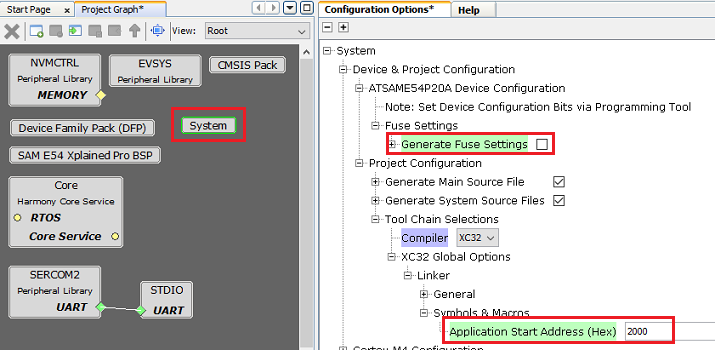
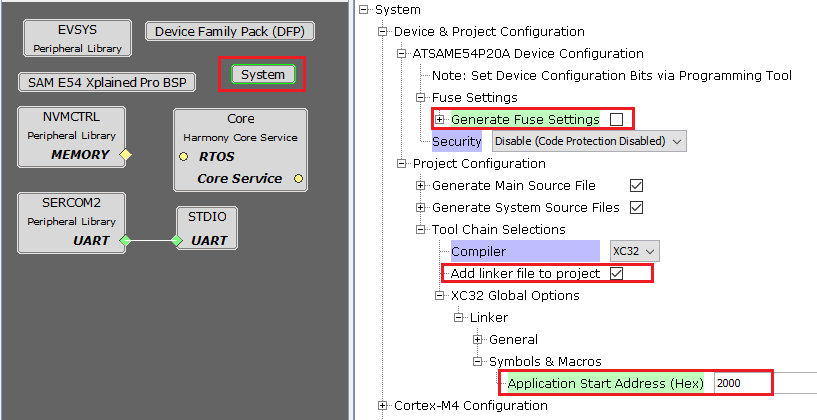
[DOC] Updated Application documentation
MH3-53034

diff --git a/apps/docs/readme_configure_application_pic32m.md b/apps/docs/readme_configure_application_pic32m.md
@@ -1,17 +1,19 @@
 ---
 parent: Application Configurations
-title: PIC32M Application Configurations
+title: Application Configurations for MIPS based MCUs
 has_children: false
 has_toc: false
 ---
 
 [![MCHP](https://www.microchip.com/ResourcePackages/Microchip/assets/dist/images/logo.png)](https://www.microchip.com)
 
-# Configuring a PIC32M based Application to be bootloaded
+# Configuring an application to be bootloaded for MIPS based MCUs
+
+## Linker configurations for the application to be bootloaded
 
 ### Bootloader placement for various PIC32M product families
 
-The bootloader is placed in Boot Flash Memory (BFM) or Program Flash Memory (PFM) based on the size of the bootloader and available Boot flash memory on the device.
+The bootloader is placed in **Boot Flash Memory (BFM)** or **Program Flash Memory (PFM)** based on the size of the bootloader and available Boot flash memory on the device.
 
 - If the bootloader fits into the available BFM, it is placed in BFM. The user application can use the complete area of the program Flash memory.
 
@@ -19,10 +21,11 @@ The bootloader is placed in Boot Flash Memory (BFM) or Program Flash Memory (PFM
 
 - The following table shows the available Boot Flash memory and the placement of different bootloaders by product family. 
 
-![bootloader_placement](./images/bootloader_placement.png)
+    <p align="center">
+        <img src = "./images/bootloader_placement.png"/>
+    </p>
 
-
-## Setting Up the Application linker script
+## Setting up the Application linker script
 
 The linker script file of the application project has to be modified to place the vector table and reset handlers in program flash memory.
 
@@ -54,7 +57,7 @@ The linker script file of the application project has to be modified to place th
 - Updated linker scripts as explained above is shown here **as an example**
     - **Note: Cache related sections are not applicable for PIC32MK Devices**
 
-```
+```c
 PROVIDE(_vector_spacing = 0x0001);
 PROVIDE(_ebase_address = 0x9D000000);
 
@@ -132,7 +135,7 @@ kseg1_boot_mem_4B0      : ORIGIN = 0xBD0004B0, LENGTH = 0x1000 - 0x4B0
 - Updated linked scripts as explained above is shown here **as an example**.
     - Bootloader length **\<bootloader_length\>** in the below snippet needs to be replaced with size of the respective bootloader.
 
-```
+```c
 PROVIDE(_vector_spacing = 0x0001);
 PROVIDE(_ebase_address = 0x9D000000);
 
@@ -191,7 +194,7 @@ kseg1_boot_mem          : ORIGIN = 0xBD000000 + <bootloader_length>, LENGTH = 0x
 
 - Updated linked scripts as explained above is shown here **as an example.**
 
-```
+```c
 PROVIDE(_vector_spacing = 0x0001);
 PROVIDE(_ebase_address = 0x9D001000);
 
@@ -235,7 +238,7 @@ ASSERT (_vector_spacing == 0 || SIZEOF(.vector_1) <= (_vector_spacing << 5), "fu
 - Updated linked scripts as explained above is shown here **as an example.**
     - Bootloader length **\<bootloader_length\>** in the below snippet needs to be replaced with size of the respective bootloader.
 
-```
+```c
 PROVIDE(_vector_spacing = 0x0001);
 PROVIDE(_ebase_address = 0x9D000000 + <bootloader_length> + 0x1000);
 
@@ -270,11 +273,11 @@ ASSERT (_vector_spacing == 0 || SIZEOF(.vector_1) <= (_vector_spacing << 5), "fu
 
 ### Note
 
-- **As the Device configuration bits should be updated by bootloader only, the application linker script should not have any device configuration settings**
+- **The bootloader and the application must have the same device configuration bit settings. The Device configuration bit settings from the bootloader project will be updated by the programmer/debugger, Hence the application linker script should not have any device configuration bit settings. The application project will use the device configuration bit settings done by bootloader.**
 
 - **Device configurations and debug exception need to discarded from final hex file for the application project.**
 
-```
+```c
 /DISCARD/ : { *(._debug_exception) }
 /DISCARD/ : { *(.config_*) }
 ```
@@ -283,7 +286,7 @@ ASSERT (_vector_spacing == 0 || SIZEOF(.vector_1) <= (_vector_spacing << 5), "fu
 
 - **Data Memory Origin** and **Data Memory Length** values should be updated in linkerscript for reserving configured bytes from start of RAM to **trigger bootloader from firmware**
 
-```
+```c
 /* Reserve <trigger_len> Bytes to Store Bootloader Trigger Pattern */
 kseg0_data_mem       (w!x)  : ORIGIN = <ram_start> + <trigger_len>, LENGTH = <ram_length> - <trigger_len>
 ```
@@ -296,4 +299,7 @@ kseg0_data_mem       (w!x)  : ORIGIN = <ram_start> + <trigger_len>, LENGTH = <ra
 ${MP_CC_DIR}/xc32-objcopy -I ihex -O binary ${DISTDIR}/${PROJECTNAME}.${IMAGE_TYPE}.hex ${DISTDIR}/${PROJECTNAME}.${IMAGE_TYPE}.bin
     ```
 
-    ![application_config_post_build_script](./images/application_config_post_build_script.png)
+    <p align="center">
+        <img src = "./images/application_config_post_build_script.png"/>
+    </p>
+

diff --git a/tools/docs/readme_btl_host.md b/tools/docs/readme_btl_host.md
@@ -20,8 +20,7 @@ To clone or download the host tools from Github,go to the [bootloader repository
 
 ## Setting up the Host PC
 
-- The Script is compatible with **Python 3.x**
-    - For **Python 2.7.x** use the host scripts placed in **tool_archive/**. These scripts may be removed in future
+- The Script is compatible with **Python 3.x** and higher
 
 - It requires pyserial package to communicate with device over UART. Use below command to install the pyserial package
 
@@ -30,10 +29,14 @@ To clone or download the host tools from Github,go to the [bootloader repository
 ## Description
 
 - This host script should be used to communicate with the Bootloader running on the device via **UART interface**
+
 - It is a command line interface and implements the bootloader protocol required to communicate from host PC
+
 - If size of the input binary file is not aligned to device erase boundary it appends 0xFF to the binary to make it aligned and then sends the binary to the device
+
 - It should be used with -s (--swap) option when using bootloader in **fail safe update mode** to trigger a **swap bank and reset**
-- It should be used with -b (--boot) option with address as 0x0 when updating the bootloader itself on SAM devices
+
+- It should be used with -b (--boot) option with address as 0x0 when updating the bootloader itself on **CORTEX-M based MCUs**
 
 ## Usage Examples
 
@@ -43,28 +46,48 @@ To clone or download the host tools from Github,go to the [bootloader repository
 python <harmony3_path>/bootloader/tools/btl_host.py --help
 ```
 
-![btl_host_help_menu](./images/btl_host_help_menu.png)
+<p align="center">
+    <img src = "./images/btl_host_help_menu.png"/>
+</p>
 
-### Below is the syntax and an example to program a binary and send a Reset command
+
+### Bootloader basic mode syntax and example
+
+Below syntax and example can be used to program a binary and send a **Reset command**
 
 ```
 python <harmony3_path>/bootloader/tools/btl_host.py -v -i <COM PORT> -d <Device Name> -a <address> -f <Application_binary_path>
 ```
 
-```
+```c
 python <harmony3_path>/bootloader/tools/btl_host.py -v -i COM18 -d same5x -a 0x2000 -f <harmony3_path>/bootloader_apps_uart/apps/uart_bootloader/test_app/firmware/sam_e54_xpro.X/dist/sam_e54_xpro/production/sam_e54_xpro.X.production.bin
 ```
 
-![btl_host_output](./images/btl_host_output.png)
+<p align="center">
+    <img src = "./images/btl_host_output.png"/>
+</p>
 
-### Below is the syntax and an example to program a binary in Inactive Bank and send a Swap Bank and Reset command
+### Bootloader Fail Safe Update mode syntax and example
+
+Below syntax and example can be used to program a binary in **Inactive Bank** and send a **Swap Bank and Reset command**
 
 ```
 python <harmony3_path>/bootloader/tools/btl_host.py -v -s -i <COM PORT> -d <Device Name> -a <Inactive Bank address> -f <Path to application binary>
 ```
 
+**Example to send Bootloader binary in inactive bank**
+
+```c
+python <harmony3_path>/bootloader/tools/btl_host.py -v -s -i COM18 -d same5x -a 0x80000 -f <harmony3_path>/bootloader_apps_uart/apps/uart_fail_safe_bootloader/bootloader/firmware/sam_e54_xpro.X/dist/sam_e54_xpro/production/sam_e54_xpro.X.production.bin
 ```
+
+**Example to send Application binary in inactive bank**
+
+```c
 python <harmony3_path>/bootloader/tools/btl_host.py -v -s -i COM18 -d same5x -a 0x82000 -f <harmony3_path>/bootloader_apps_uart/apps/uart_fail_safe_bootloader/test_app/firmware/sam_e54_xpro.X/dist/sam_e54_xpro/production/sam_e54_xpro.X.production.bin
 ```
 
-![btl_host_swap_bank_output](./images/btl_host_swap_bank_output.png)
+<p align="center">
+    <img src = "./images/btl_host_swap_bank_output.png"/>
+</p>
+

diff --git a/tools/docs/readme_btl_app_merge_bin.md b/tools/docs/readme_btl_app_merge_bin.md
@@ -20,18 +20,23 @@ To clone or download the host tools from Github,go to the [bootloader repository
 
 ## Setting up the Host PC
 
-- The Script is compatible with **Python 3.x**
-    - For **Python 2.7.x** use the host scripts placed in **tool_archive/**. These scripts may be removed in future
+- The Script is compatible with **Python 3.x** and higher
 
 ## Description
 
 - This script should be used to merge the bootloader binary and application binary
+
 - It creates a merged binary output where bootloader is placed from start and the application will be placed at the offset passed as parameter
+
 - If the application offset is not equal to end of bootloader offset it fills the gap with 0xFF until the application offset
-- The merged binary can be used by btl_host.py as input for Updating bootloader and application together
+
+- The merged binary can be used by **btl_host.py** as input for Updating bootloader and application together
+
 - The merged binary will be created in the directory from where the script was called
 
-    ![btl_app_merge_bin](./images/btl_app_merge_bin.png)
+<p align="center">
+    <img src = "./images/btl_app_merge_bin.png"/>
+</p>
 
 ## Usage Examples
 
@@ -41,7 +46,9 @@ To clone or download the host tools from Github,go to the [bootloader repository
 python <harmony3_path>/bootloader/tools/btl_app_merge_bin.py --help
 ```
 
-![btl_app_merge_bin_help_menu](./images/btl_app_merge_bin_help_menu.png)
+<p align="center">
+    <img src = "./images/btl_app_merge_bin_help_menu.png"/>
+</p>
 
 ### Below is the syntax and an example on how to merge a bootloader binary and application binary
 
@@ -49,14 +56,18 @@ python <harmony3_path>/bootloader/tools/btl_app_merge_bin.py --help
 python <harmony3_path>/bootloader/tools/btl_app_merge_bin.py -o <Offset> -b <Bootloader_binary_path> -a <Application_binary_path>
 ```
 
-```
+```c
 python <harmony3_path>/bootloader/tools/btl_app_merge_bin.py -o 0x2000 -b <harmony3_path>/bootloader_apps_uart/apps/uart_fail_safe_bootloader/bootloader/firmware/sam_e54_xpro.X/dist/sam_e54_xpro/production/sam_e54_xpro.X.production.bin -a <harmony3_path>/bootloader_apps_uart/apps/uart_fail_safe_bootloader/test_app/firmware/sam_e54_xpro.X/dist/sam_e54_xpro/production/sam_e54_xpro.X.production.bin
 ```
 
-![btl_app_merge_bin_output](./images/btl_app_merge_bin_output.png)
+<p align="center">
+    <img src = "./images/btl_app_merge_bin_output.png"/>
+</p>
 
-```
+```c
 python <harmony3_path>/bootloader/tools/btl_host.py -v -s -i COM18 -d same5x -a 0x80000 -f <Path_to_merged_binary>/btl_app_merged.bin
 ```
 
-![btl_host_swap_bank_output](./images/btl_host_swap_bank_output.png)
+<p align="center">
+    <img src = "./images/btl_host_swap_bank_output.png"/>
+</p>

diff --git a/apps/docs/readme_configure_application_sam.md b/apps/docs/readme_configure_application_sam.md
@@ -1,20 +1,22 @@
 ---
 parent: Application Configurations
-title: SAM Application Configurations
+title: Application Configurations for CORTEX-M based MCUs
 has_children: false
 has_toc: false
 ---
 
 [![MCHP](https://www.microchip.com/ResourcePackages/Microchip/assets/dist/images/logo.png)](https://www.microchip.com)
 
-# Configuring a SAM based Application to be bootloaded
+# Configuring an application to be bootloaded for CORTEX-M based MCUs
 
-## Application Settings in MHC System Configuration
+## Application settings in MHC system configuration
 
 1. Launch MHC for the application project to be configured
 2. Select **system** component from the project graph and configure the below highlighted settings
 
-    ![application_config_mhc_setting](./images/application_config_mhc_setting.png)
+    <p align="center">
+        <img src = "./images/application_config_mhc_setting.png"/>
+    </p>
 
 3. **Disable Fuse Settings:**
     - Fuse settings needs to be disabled for the application which will be boot-loaded as the fuse settings are supposed to be programmed through programming tool from bootloader code. Also the fuse settings are not programmable through firmware
@@ -34,7 +36,9 @@ has_toc: false
 
     - After the project is regenerated, the ROM_ORIGIN and ROM_LENGTH are the XC32 linker variables which will be overridden with value provided for **Application Start Address (Hex)** and can be verified under Options for xc32-ld in Project Properties in MPLABX IDE as shown below.
 
-    ![application_config_xc32_ld_rom](./images/application_config_xc32_ld_rom.png)
+    <p align="center">
+        <img src = "./images/application_config_xc32_ld_rom.png"/>
+    </p>
 
 ## MPLAB X Settings
 
@@ -44,7 +48,9 @@ has_toc: false
 ${MP_CC_DIR}/xc32-objcopy -I ihex -O binary ${DISTDIR}/${PROJECTNAME}.${IMAGE_TYPE}.hex ${DISTDIR}/${PROJECTNAME}.${IMAGE_TYPE}.bin
     ```
 
-    ![application_config_post_build_script](./images/application_config_post_build_script.png)
+    <p align="center">
+        <img src = "./images/application_config_post_build_script.png"/>
+    </p>
 
 ## Additional settings (Optional)
 
@@ -54,4 +60,7 @@ ${MP_CC_DIR}/xc32-objcopy -I ihex -O binary ${DISTDIR}/${PROJECTNAME}.${IMAGE_TY
 
 - This is optional and can be ignored if not required
 
-    ![application_config_xc32_ld_ram](./images/application_config_xc32_ld_ram.png)
+    <p align="center">
+        <img src = "./images/application_config_xc32_ld_ram.png"/>
+    </p>
+

diff --git a/apps/uart_bootloader/docs/readme_pic32mk_mcj_curiosity_pro.md b/apps/uart_bootloader/docs/readme_pic32mk_mcj_curiosity_pro.md
@@ -21,18 +21,18 @@ To build the application, refer to the following table and open the project usin
 
 | Project Name      | Description                                    |
 | ----------------- | ---------------------------------------------- |
-| bootloader/firmware/pic32mk_mcj_curiosity_pro.X    | MPLABX Project for PIC32MK MCJ Curiosity Pro Development Board |
+| bootloader/firmware/pic32mk_mcj_curiosity_pro.X    | MPLABX Project for [PIC32MK MCJ Curiosity Pro](https://www.microchip.com/DevelopmentTools/ProductDetails/PartNO/DT100113) |
 
 ### Test Application
 
 | Project Name      | Description                                    |
 | ----------------- | ---------------------------------------------- |
-| test_app/firmware/pic32mk_mcj_curiosity_pro.X    | MPLABX Project for PIC32MK MCJ Curiosity Pro Development Board |
+| test_app/firmware/pic32mk_mcj_curiosity_pro.X    | MPLABX Project for [PIC32MK MCJ Curiosity Pro](https://www.microchip.com/DevelopmentTools/ProductDetails/PartNO/DT100113) |
 
-## Setting up PIC32MK MCJ Curiosity Pro Development Board
+## Setting up [PIC32MK MCJ Curiosity Pro](https://www.microchip.com/DevelopmentTools/ProductDetails/PartNO/DT100113)
 
 - Install an [USB UART click](https://www.mikroe.com/usb-uart-click) board on to the [mikroBUS Xplained Pro](https://www.microchip.com/developmenttools/ProductDetails/ATMBUSADAPTER-XPRO) board
-- Connect the [mikroBUS Xplained Pro](https://www.microchip.com/developmenttools/ProductDetails/ATMBUSADAPTER-XPRO) board to the J501 header of the PIC32MK MCJ Curiosity Pro Development Board
+- Connect the [mikroBUS Xplained Pro](https://www.microchip.com/developmenttools/ProductDetails/ATMBUSADAPTER-XPRO) board to the J501 header of the [PIC32MK MCJ Curiosity Pro](https://www.microchip.com/DevelopmentTools/ProductDetails/PartNO/DT100113)
 - Connect mini USB cable to the [USB UART click](https://www.mikroe.com/usb-uart-click) board. This will enumerate the USB to UART port
 - For programming, Connect micro USB cable to the 'Debug USB' connector(J1) on the board to the computer
 

diff --git a/apps/uart_bootloader/docs/readme_pic32mk_mcm_curiosity_pro.md b/apps/uart_bootloader/docs/readme_pic32mk_mcm_curiosity_pro.md
@@ -21,15 +21,15 @@ To build the application, refer to the following table and open the project usin
 
 | Project Name      | Description                                    |
 | ----------------- | ---------------------------------------------- |
-| bootloader/firmware/pic32mk_mcm_curiosity_pro.X    | MPLABX Project for PIC32MK MCM Curiosity Pro Development Board |
+| bootloader/firmware/pic32mk_mcm_curiosity_pro.X    | MPLABX Project for [PIC32MK MCM Curiosity Pro Development Board](https://www.microchip.com/Developmenttools/ProductDetails/EV31E34A) |
 
 ### Test Application
 
 | Project Name      | Description                                    |
 | ----------------- | ---------------------------------------------- |
-| test_app/firmware/pic32mk_mcm_curiosity_pro.X    | MPLABX Project for PIC32MK MCM Curiosity Pro Development Board |
+| test_app/firmware/pic32mk_mcm_curiosity_pro.X    | MPLABX Project for [PIC32MK MCM Curiosity Pro Development Board](https://www.microchip.com/Developmenttools/ProductDetails/EV31E34A) |
 
-## Setting up PIC32MK MCM Curiosity Pro Development Board
+## Setting up [PIC32MK MCM Curiosity Pro Development Board](https://www.microchip.com/Developmenttools/ProductDetails/EV31E34A)
 
 - Connect a micro USB cable to the USB to UART port J400. This will enumerate as a COM port on the PC.
 - For programming, Connect a micro USB cable to the USB DEBUG port J500

diff --git a/apps/docs/readme_configure_application.md b/apps/docs/readme_configure_application.md
@@ -9,6 +9,6 @@ nav_order: 3
 
 # Configuring an Application to be bootloaded
 
-- To bootload a SAM based application refer to [SAM Application Configuration](./readme_configure_application_sam.md)
+- To bootload a CORTEX-M based application refer to [Application Configurations for CORTEX-M based MCUs](./readme_configure_application_sam.md)
 
-- To bootload a PIC32M based application refer to [PIC32M Application Configuration](./readme_configure_application_pic32m.md)
+- To bootload a MIPS based application refer to [Application Configurations for MIPS based MCUs](./readme_configure_application_pic32m.md)
